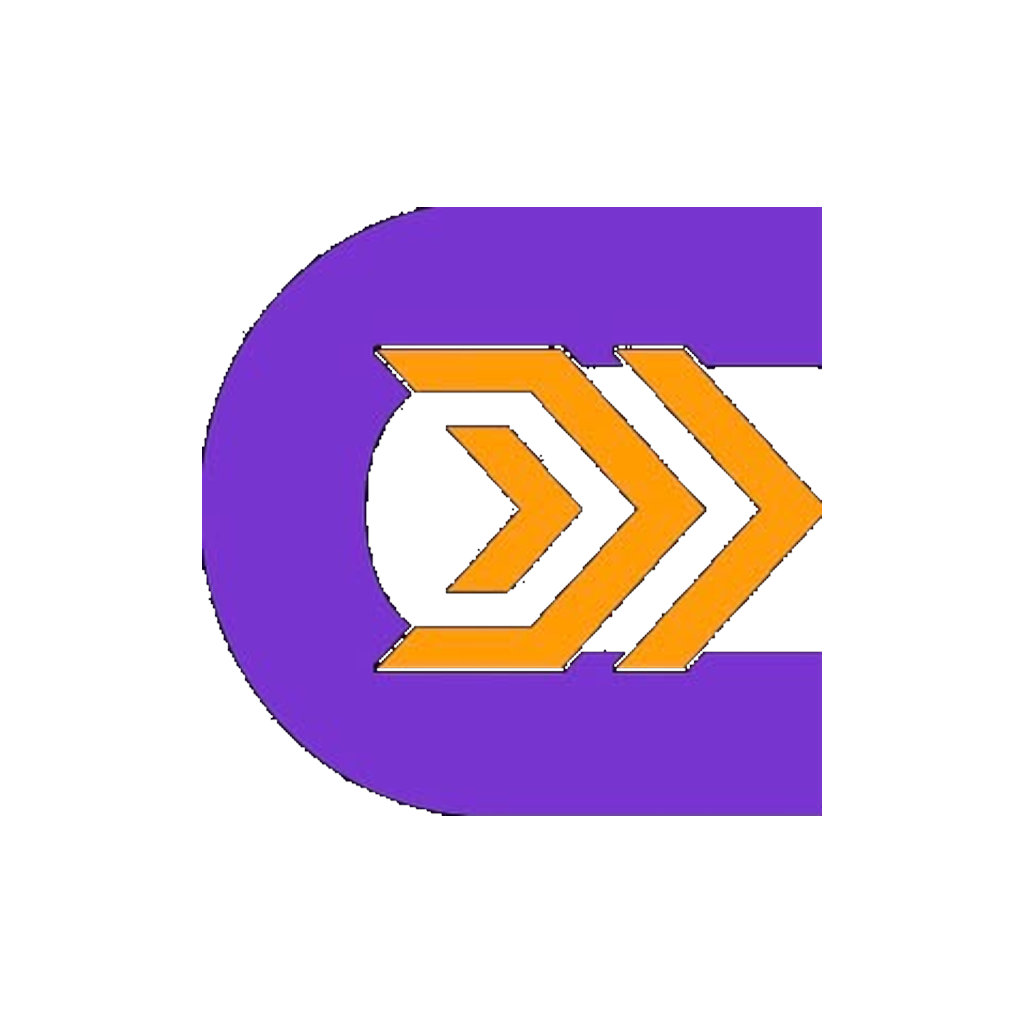
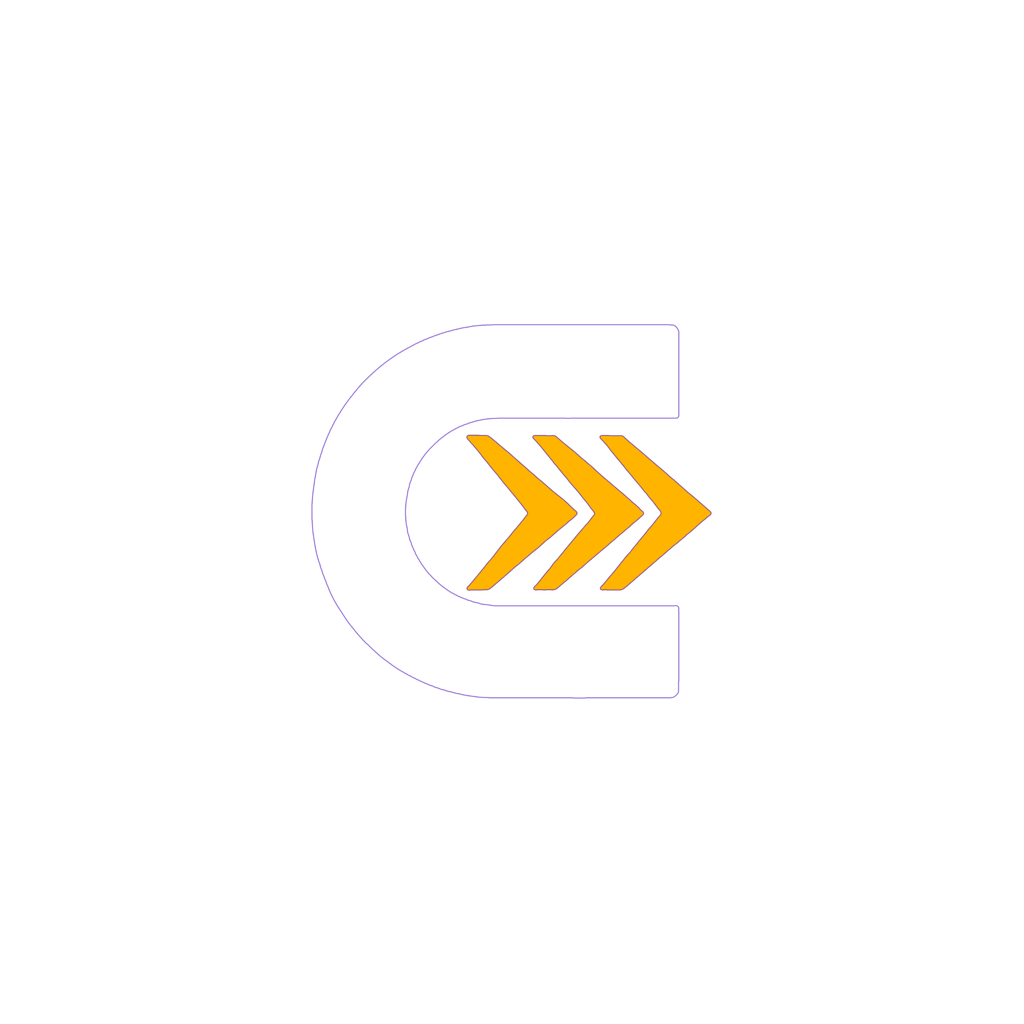
New animated splash, Android back button, start page skeleton

Changed region(s): [[0.1875, 0.1875, 0.8125, 0.8125]]

diff --git a/src/components/SplashScreen.tsx b/src/components/SplashScreen.tsx
@@ -8,9 +8,9 @@ interface SplashScreenProps {
   ready?: boolean;
 }
 
-const EXIT_MS = 200;
+const EXIT_MS = 250;
 
-export default function SplashScreen({ onFinished, introMs = 6000, ready = true }: SplashScreenProps) {
+export default function SplashScreen({ onFinished, introMs = 4500, ready = true }: SplashScreenProps) {
   const [introDone, setIntroDone] = useState(false);
   const [exiting, setExiting] = useState(false);
 
@@ -29,19 +29,21 @@ export default function SplashScreen({ onFinished, introMs = 6000, ready = true 
 
   return (
     <div className={`splash-root ${exiting ? "splash-exiting" : ""}`}>
-      {/* eslint-disable-next-line @next/next/no-img-element */}
-      <img
-        src="/crafteey-logo-mark.png"
-        alt=""
-        width={96}
-        height={96}
-        className="splash-mark"
-      />
+      <div className="splash-stack">
+        <svg className="splash-mark" viewBox="225 245 575 530" aria-hidden="true">
+          <path
+            fill="#ffffff"
+            d="M490 250H735Q745 250 745 260V382H490A130 130 0 0 0 490 642H745V760Q745 770 735 770H490A260 260 0 0 1 490 250Z"
+          />
+          <g fill="#FFB400">
+            <polygon points="450,405 480,405 603,515 480,621 450,621 535,513" />
+            <polygon points="543,405 573,405 696,515 573,621 543,621 628,513" />
+            <polygon points="636,405 666,405 790,515 666,621 636,621 722,513" />
+          </g>
+        </svg>
 
-      <div className="splash-wordmark">
-        <span className="splash-word-blue">Craft</span>
-        <span className="splash-word-orange">ee</span>
-        <span className="splash-word-blue">y</span>
+        <div className="splash-word">crafteey</div>
+        <div className="splash-sub">riders</div>
       </div>
 
       <style jsx>{`
@@ -50,11 +52,9 @@ export default function SplashScreen({ onFinished, introMs = 6000, ready = true 
           inset: 0;
           z-index: 9999;
           display: flex;
-          flex-direction: column;
           align-items: center;
           justify-content: center;
-          gap: 16px;
-          background: #000;
+          background: radial-gradient(ellipse at 50% 40%, #4300b8 0%, #3f04ac 55%, #2e0086 100%);
           overflow: hidden;
           opacity: 1;
           transition: opacity ${EXIT_MS}ms ease-in;
@@ -65,31 +65,61 @@ export default function SplashScreen({ onFinished, introMs = 6000, ready = true 
           pointer-events: none;
         }
 
+        .splash-stack {
+          display: flex;
+          flex-direction: column;
+          align-items: center;
+          transform: translateY(-4vh);
+        }
+
         .splash-mark {
-          position: relative;
+          width: min(24vw, 120px);
+          height: auto;
           opacity: 0;
-          animation: splash-mark-in 0.7s ease-out 0.6s forwards;
+          transform: scale(0.7);
+          animation:
+            splash-mark-in 0.7s ease-out 0.5s forwards,
+            splash-glow 1.8s ease-in-out 2.2s infinite alternate;
         }
 
-        .splash-wordmark {
-          position: relative;
-          font-family: var(--font-space-grotesk), sans-serif;
-          font-weight: 700;
-          font-size: 28px;
+        .splash-word {
+          margin-top: 7vh;
+          font-family: var(--font-inter), sans-serif;
+          font-weight: 600;
+          font-size: min(9.5vw, 40px);
+          letter-spacing: 0.01em;
+          color: #ffffff;
           opacity: 0;
-          transform: translateY(6px);
-          animation: splash-word-in 0.5s ease-out 1.5s forwards;
+          transform: translateY(8px);
+          animation: splash-rise 0.6s ease-out 1.2s forwards;
         }
 
-        .splash-word-blue { color: #4a10d7; }
-        .splash-word-orange { color: #ff8900; }
+        .splash-sub {
+          margin-top: 4px;
+          font-family: var(--font-inter), sans-serif;
+          font-weight: 400;
+          font-size: min(4.6vw, 18px);
+          letter-spacing: 0.3em;
+          padding-left: 0.3em;
+          color: rgba(255, 255, 255, 0.85);
+          opacity: 0;
+          transform: translateY(8px);
+          animation: splash-rise 0.6s ease-out 1.7s forwards;
+        }
 
         @keyframes splash-mark-in {
-          from { opacity: 0; transform: scale(0.6) rotate(-8deg); }
-          to { opacity: 1; transform: scale(1) rotate(0deg); }
+          from { opacity: 0; transform: scale(0.7); }
+          to { opacity: 1; transform: scale(1); }
         }
 
-        @keyframes splash-word-in { to { opacity: 1; transform: translateY(0); } }
+        @keyframes splash-rise {
+          to { opacity: 1; transform: translateY(0); }
+        }
+
+        @keyframes splash-glow {
+          from { filter: drop-shadow(0 0 0 rgba(255, 180, 0, 0)); }
+          to { filter: drop-shadow(0 0 16px rgba(255, 180, 0, 0.45)); }
+        }
       `}</style>
     </div>
   );

diff --git a/src/components/BackButtonHandler.tsx b/src/components/BackButtonHandler.tsx
@@ -1,0 +1,55 @@
+"use client";
+
+import { useEffect, useRef } from "react";
+import { usePathname, useRouter } from "next/navigation";
+
+// On these screens the phone back button closes the app.
+const EXIT_PATHS = ["/", "/login", "/dashboard"];
+
+export default function BackButtonHandler() {
+  const pathname = usePathname();
+  const router = useRouter();
+  const pathRef = useRef(pathname);
+
+  useEffect(() => {
+    pathRef.current = pathname;
+  }, [pathname]);
+
+  useEffect(() => {
+    let cancelled = false;
+    let remove: (() => void) | undefined;
+
+    (async () => {
+      try {
+        const { Capacitor } = await import("@capacitor/core");
+        if (!Capacitor.isNativePlatform()) return;
+        const { App } = await import("@capacitor/app");
+
+        const handle = await App.addListener("backButton", ({ canGoBack }) => {
+          const p = pathRef.current || "/";
+          if (EXIT_PATHS.includes(p)) {
+            App.exitApp();
+            return;
+          }
+          if (canGoBack) {
+            window.history.back();
+          } else {
+            router.replace("/dashboard");
+          }
+        });
+
+        if (cancelled) handle.remove();
+        else remove = () => handle.remove();
+      } catch {
+        // not running inside the Android app: do nothing
+      }
+    })();
+
+    return () => {
+      cancelled = true;
+      if (remove) remove();
+    };
+  }, [router]);
+
+  return null;
+}

diff --git a/src/app/page.tsx b/src/app/page.tsx
@@ -48,8 +48,11 @@ export default function HomePage() {
   }, [user, loading, router, getIdToken]);
 
   return (
-    <div className="flex min-h-screen items-center justify-center">
-      <p className="text-sm text-steel">Loading…</p>
+    <div className="min-h-screen space-y-4 p-4">
+      <div className="h-12 w-1/2 animate-pulse rounded-xl bg-gray-200 dark:bg-gray-700" />
+      <div className="h-40 animate-pulse rounded-2xl bg-gray-200 dark:bg-gray-700" />
+      <div className="h-24 animate-pulse rounded-2xl bg-gray-200 dark:bg-gray-700" />
+      <div className="h-24 animate-pulse rounded-2xl bg-gray-200 dark:bg-gray-700" />
     </div>
   );
 }

diff --git a/src/components/ClientRoot.tsx b/src/components/ClientRoot.tsx
@@ -2,6 +2,7 @@
 
 import { useState } from "react";
 import SplashScreen from "@/components/SplashScreen";
+import BackButtonHandler from "@/components/BackButtonHandler";
 import { useAuth } from "@/contexts/AuthContext";
 
 export default function ClientRoot({ children }: { children: React.ReactNode }) {
@@ -10,6 +11,7 @@ export default function ClientRoot({ children }: { children: React.ReactNode }) 
 
   return (
     <>
+      <BackButtonHandler />
       {showSplash && (
         <SplashScreen ready={!authLoading} onFinished={() => setShowSplash(false)} />
       )}
